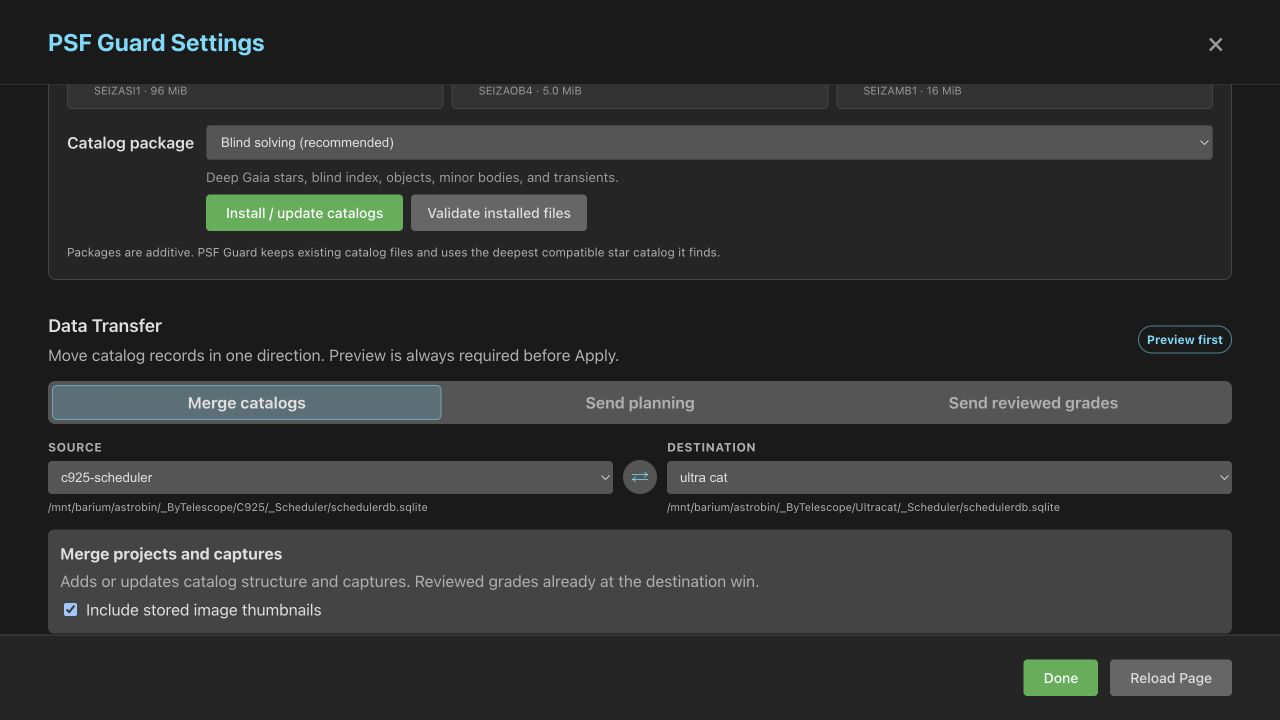
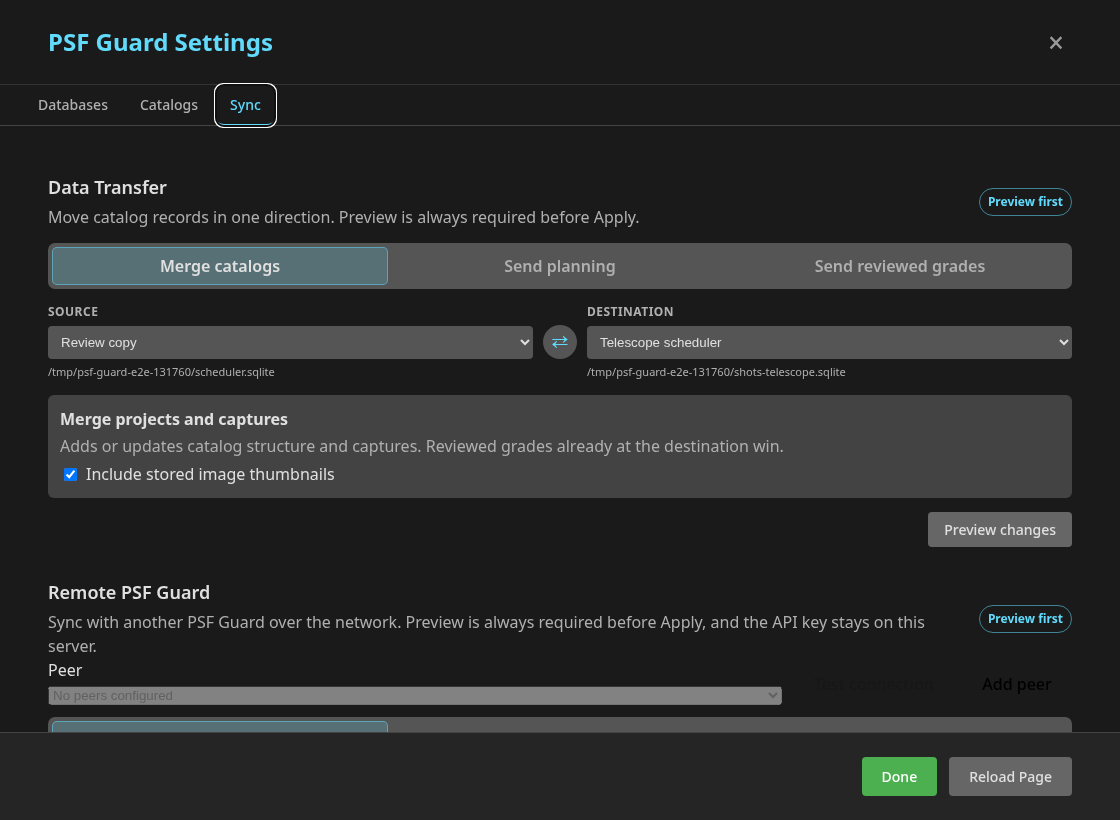
docs: refresh the settings screenshots for the tabs
Three doc images showed settings as one scrolling page, and one caption
claimed the quality controls sit beside the Seiza catalog controls, which
the tabs make false.

Re-shot the create form, the Seiza catalogs and the Data Transfer
workspace in their tabs, and added a first-run capture of the tab strip.
settings-catalog-quality.png predates the tabs and is kept as-is; the
text now says so rather than describing a layout that no longer exists.

diff --git a/docs/IMPORTING.md b/docs/IMPORTING.md
@@ -15,10 +15,17 @@ a trusted interface and opt in:
 psf-guard server --host 127.0.0.1 --allow-database-management
 ```
 
-Then open **Settings** and choose **New Database from Images**. On a first run
-PSF Guard has no catalogs yet, so it opens Settings for you and the welcome
-banner offers this alongside **Add Existing Database**. The overview's empty
-state offers the same two starting points.
+Settings has three tabs: **Databases** for catalogs and imports, **Catalogs**
+for the Seiza data packages, and **Sync** for moving records between catalogs.
+Sync appears once you have a catalog to move records between.
+
+On a first run PSF Guard has none, so it opens Settings on the Databases tab
+and offers both starting points. The overview's empty state offers the same
+two.
+
+![First run: the Databases tab offering both starting points](settings-tabs.png)
+
+Choose **New Database from Images**.
 
 ![New Database from Images form](import-from-images.png)
 
@@ -130,7 +137,11 @@ reads the server's job state when it opens, so navigation or a page reload does
 not hide a running job. A server restart ends the in-memory job; start it again
 to resume from the persistent cache.
 
-![Settings showing Analyze Missing Quality and Rescan All Quality beside the Seiza catalog controls](settings-catalog-quality.png)
+These controls sit with each database on the **Databases** tab. The screenshot
+below predates the tabs, so it shows them beside the Seiza catalog controls;
+the buttons and their behaviour are unchanged.
+
+![Analyze Missing Quality and Rescan All Quality for a configured database](settings-catalog-quality.png)
 
 The backfill uses the N.I.N.A. Fast detector for star count and HFR, which keeps
 new values comparable with Target Scheduler data. It also stores the full-star
@@ -147,10 +158,10 @@ header name grouped them poorly.
 
 ## Sync with the telescope database
 
-Add both the local and telescope databases in Settings, then use
-**Data Transfer**:
+Add both the local and telescope databases in Settings, then open the **Sync**
+tab and use **Data Transfer**:
 
-![Data Transfer workspace with named source and destination catalogs](data-transfer.png)
+![The Sync tab, with Data Transfer over named source and destination catalogs](data-transfer.png)
 
 - **Merge catalogs** copies new or changed projects, targets, templates, plans,
   captures, grades, rigs, and raw calibration-frame records from the selected

diff --git a/README.md b/README.md
@@ -445,12 +445,12 @@ toggles the overlay instead of solving again.
 PSF Guard embeds Seiza 0.12.0's solver but does not bundle its multi-gigabyte
 catalog data. The desktop app can install and update these files from
 **Settings → Seiza Catalogs**. The same controls appear in a browser when the
-server starts with `--allow-database-management`. Settings shows which
-features are ready, keeps download progress across page reloads, and can
-validate every installed file. Catalog packages are additive; **Blind
-solving** is the recommended default.
+server starts with `--allow-database-management`. The **Catalogs** tab in
+Settings shows which features are ready, keeps download progress across page
+reloads, and can validate every installed file. Catalog packages are additive;
+**Blind solving** is the recommended default.
 
-![Settings showing Seiza catalog readiness, package installation, and validation](docs/settings-seiza-catalogs.png)
+![The Catalogs tab showing Seiza catalog readiness, package installation, and validation](docs/settings-seiza-catalogs.png)
 
 For a manual or headless install, get the `seiza` CLI from the
 [Seiza releases](https://github.com/theatrus/seiza/releases) or with
